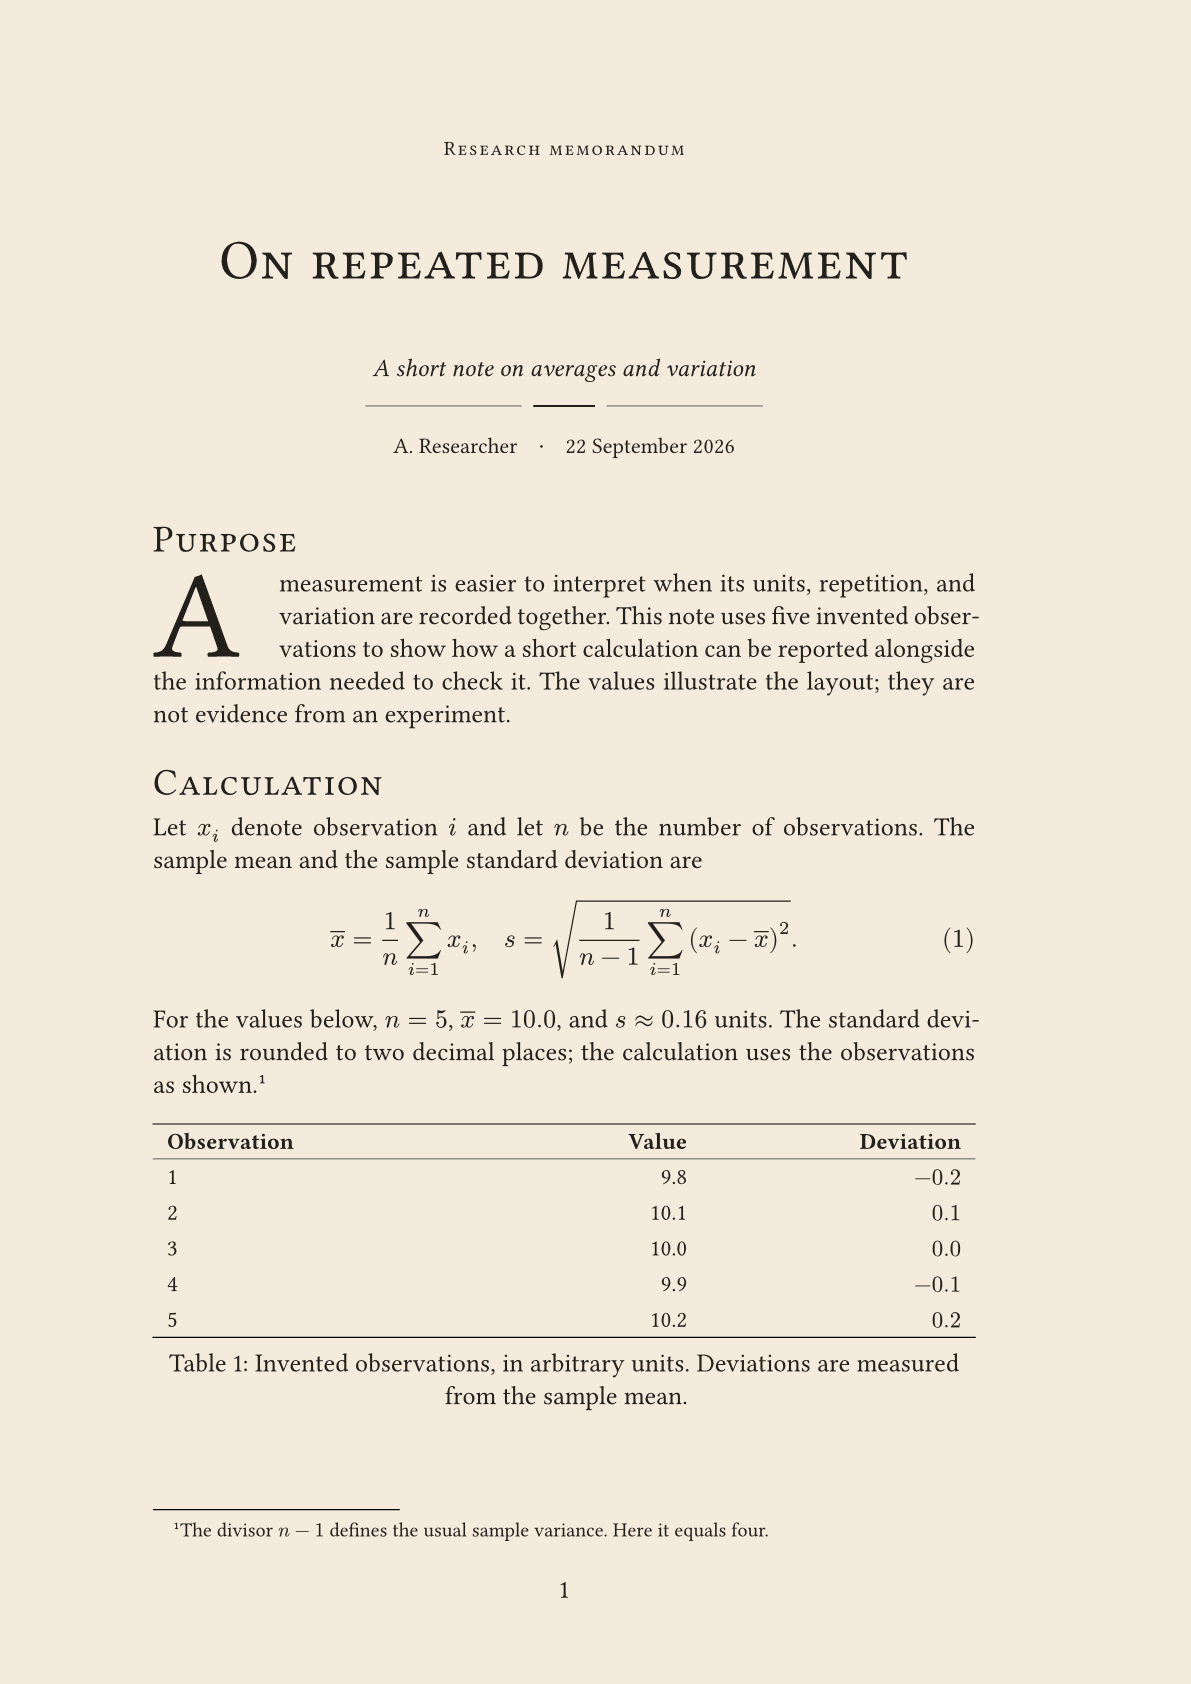
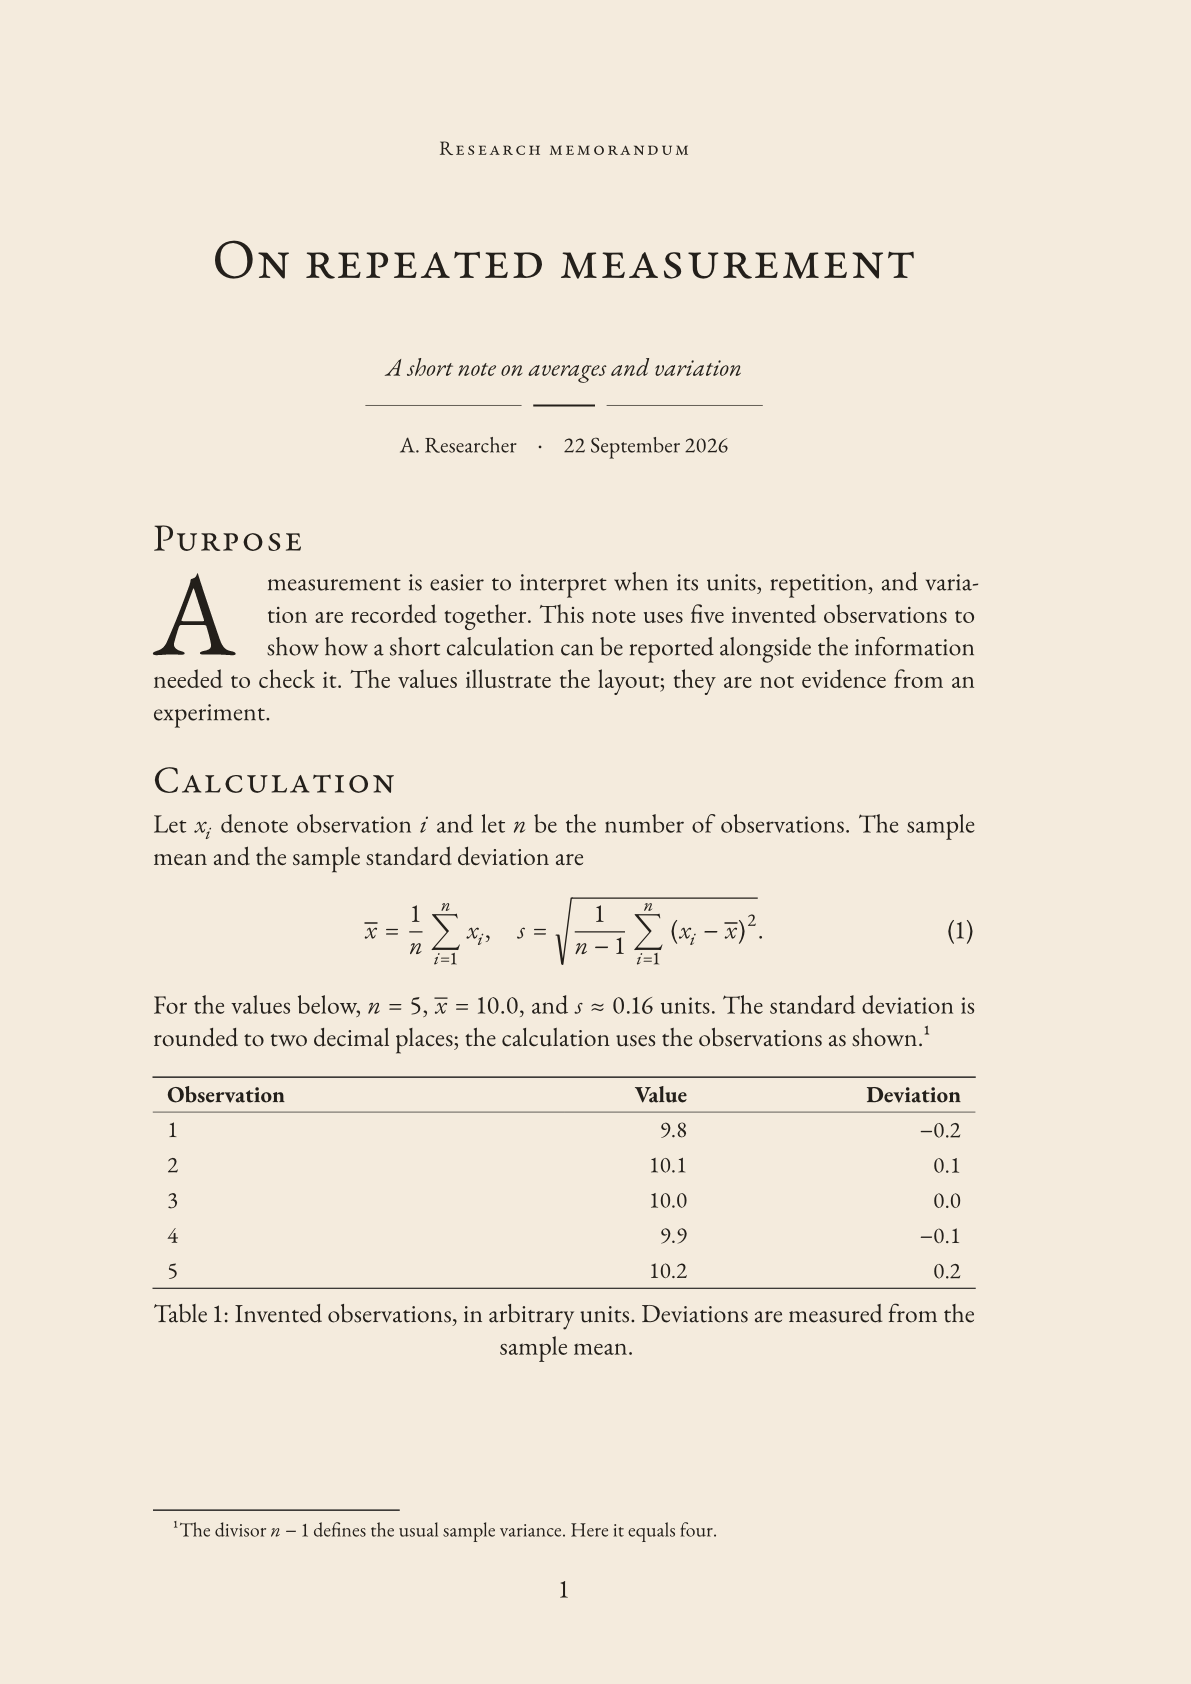
Make Garamond the default and unify the example for 0.2.0

diff --git a/README.md b/README.md
@@ -1,215 +1,168 @@
 <!-- SPDX-License-Identifier: MIT-0 -->
 # sepia-memo
 
-Research memos with cream paper, classical serif typography, small-cap headings,
-printer's rules, and readable mathematics and tables. Adapted from
-[Foadsf/vintage-latex](https://github.com/Foadsf/vintage-latex), with modern
-spelling and numerals. The memo style needs no extra fonts or packages; the starter uses
-[droplet](https://typst.app/universe/package/droplet/) for an optional drop cap.
-Requires Typst 0.15.0 or newer.
+Research memos with cream paper, Garamond text and mathematics, drop capitals,
+and margin notes. Requires Typst 0.15.0 or newer.
 
-Version 0.1.2 is a repository-only version. The existing
-[Typst Universe submission #5916](https://github.com/typst/packages/pull/5916)
-still contains 0.1.0. Registry imports require local installation until the
-corresponding version is published.
+Version 0.2.0 is not yet on Universe. Until publication, use the local preview
+instructions below. [Submission #5916](https://github.com/typst/packages/pull/5916).
 
-## Preview
+## Setup
 
-First page of the complete [starter](template/main.typ), with a drop capital,
-equations, a table, and footnotes:
-
-![Complete starter, page 1 of 2](thumbnail.png)
+Install [EB Garamond](https://ctan.org/pkg/ebgaramond) (regular, italic, bold,
+and bold italic) and [Garamond-Math](https://github.com/YuanshengZhao/Garamond-Math/blob/master/Garamond-Math.otf).
+On desktop, install through your font manager and restart the editor/preview;
+verify both families with `typst fonts`. Alternatively pass `--font-path /path/to/fonts`.
+In the Typst web app, upload them to your project if unavailable. Fonts are not
+bundled. The starter downloads `droplet:0.3.1` on first compilation.
 
 ## Usage
 
-For a shorter example, import the package and apply `memo` to your document:
+[template/main.typ](template/main.typ) is the only starter. Edit its metadata
+and body. The complete example below is the same file; the image is its first page.
 
 ```typ
-#import "@preview/sepia-memo:0.1.2": memo, memo-note, printer-rule
+// SPDX-License-Identifier: MIT-0
+// Copyright (c) 2026 Chen Gao
+#import "@preview/sepia-memo:0.2.0": memo, memo-note
 #import "@preview/droplet:0.3.1": dropcap
 
-#show: memo.with(title: [A research note], author: "Your name")
+#show: memo.with(
+  title: [On repeated measurement],
+  subtitle: [A short note on averages and variation],
+  author: "A. Researcher",
+  date: [22 September 2026],
+)
 
-= Main idea
+// ponytail: One starter; optional fonts use the same memo settings.
+#set math.equation(numbering: "(1)")
+
+= Purpose
 
 #dropcap(height: 3, gap: 4pt)[
-  Write your note here. State the question, define the quantities, and explain
-  the main idea before introducing equations or evidence. Use a dropped capital
-  to mark the opening paragraph; the rest of the note uses ordinary text.
+A measurement is easier to interpret when its units, repetition, and variation
+are recorded together. This note uses five invented observations to show how a
+short calculation can be reported alongside the information needed to check it.
+The values illustrate the layout; they are not evidence from an experiment.
 ]
 
-#memo-note[Check the units.][A paragraph with a note in the right margin.]
+= Calculation
 
-#printer-rule()
+Let $x_i$ denote observation $i$ and let $n$ be the number of observations. The
+sample mean and the sample standard deviation are
+
+$
+  overline(x) = 1/n sum_(i=1)^n x_i,
+  quad s = sqrt(1/(n - 1) sum_(i=1)^n (x_i - overline(x))^2).
+$ <eq-summary>
+
+For the values below, $n = 5$, $overline(x) = 10.0$, and $s approx 0.16$ units.
+The standard deviation is rounded to two decimal places; the calculation uses
+the observations as shown.#footnote[The divisor $n - 1$ defines the usual sample
+  variance. Here it equals four.]
+
+#figure(
+  table(
+    columns: (1fr, 1fr, 1fr),
+    align: (left, right, right),
+    table.hline(stroke: 0.6pt),
+    table.header([*Observation*], [*Value*], [*Deviation*]),
+    table.hline(stroke: 0.3pt),
+    [1], [9.8], [$-0.2$],
+    [2], [10.1], [$0.1$],
+    [3], [10.0], [$0.0$],
+    [4], [9.9], [$-0.1$],
+    [5], [10.2], [$0.2$],
+    table.hline(stroke: 0.6pt),
+  ),
+  caption: [Invented observations, in arbitrary units. Deviations are measured
+    from the sample mean.],
+) <tab-observations>
+
+= Interpretation
+
+#memo-note[
+  *Keep units visible.* A precise number can still describe an uncertain
+  measurement.
+][
+  @tab-observations makes the arithmetic in @eq-summary easy to inspect. The
+  deviations sum to zero, while their squares sum to $0.10$. These checks can
+  catch a transcription error before a rounded result is reported.
+]
+
+Repeated measurements describe variation under the conditions of collection.
+They do not, by themselves, establish that the instrument is calibrated or
+that a different setting would produce the same distribution. Those claims
+need their own observations and reasoning.
 ```
 
-Output of this shorter example:
+![The starter rendered with the default Garamond fonts, page 1 of 2](thumbnail.png)
 
-![Rendered Usage example](usage.png)
-
-## Start a memo
-
-The [starter](template/main.typ) contains memo settings and sample content in
-one file. Edit its title, author, date, and body to write your note.
-
-After version 0.1.2 is published on Universe, start a project with:
+Once 0.2.0 is published on Universe, create and watch a memo with:
 
 ```sh
-typst init @preview/sepia-memo:0.1.2 my-memo
+typst init @preview/sepia-memo:0.2.0 my-memo
 typst watch my-memo/main.typ my-memo/main.pdf
 ```
 
 ## Options
 
-Apply `memo.with(...)` with a show rule, as in the starter. All options are
-optional; the document body follows the show rule as ordinary Typst content.
+Set these in `memo.with(...)`. The body follows the show rule normally.
 
 | Option | Default | Purpose |
 | --- | --- | --- |
-| `title` | `[Untitled memo]` | Title content and PDF title metadata |
-| `subtitle` | `none` | Optional subtitle content |
-| `author` | `""` | Author string and PDF author metadata |
-| `date` | `none` | Date content or string; never changes automatically |
-| `paper` | `"a4"` | Paper name, such as `"us-letter"` |
-| `font` | `"Libertinus Serif"` | Body font family |
-| `math-font` | `"New Computer Modern Math"` | OpenType math font family |
-| `paper-color` | `rgb("#F4EBDD")` | Page background; use `white` for printing |
+| `title` | `[Untitled memo]` | Title and PDF metadata |
+| `subtitle` | `none` | Subtitle content |
+| `author` | `""` | Author string and PDF metadata |
+| `date` | `none` | Date content or string |
+| `paper` | `"a4"` | Paper size; also supports `"us-letter"` |
+| `font` | `"EB Garamond"` | Text font |
+| `math-font` | `"Garamond-Math"` | Math font |
+| `paper-color` | `rgb("#F4EBDD")` | Background; use `white` for printing |
 | `ink` | `rgb("#231F1A")` | Text and title-rule color |
 
-Default fonts are embedded in the Typst CLI. Code uses DejaVu Sans Mono.
-Body text is 13 pt; the title is 28 pt. Level-1 headings use 19 pt small caps,
-level-2 use 17 pt italic, and level-3 use 14 pt bold. Fixed margins are 25 mm
-top, 26 mm bottom, 27 mm left, and 38 mm right, intended for portrait A4 and
-US Letter. When adapting an existing document, select its paper size explicitly.
+For fonts embedded in the Typst CLI, set `font: "Libertinus Serif"` and
+`math-font: "New Computer Modern Math"`; the layout will differ from the preview.
 
-Headings, equations, references, footnotes, figures, and bibliographies remain
-ordinary Typst elements. Opt into equation numbering with
-`#set math.equation(numbering: "(1)")`. Tables use lining tabular numerals;
-add rules with `table.hline`. Table figures can span pages; use
-`table.header(repeat: true, ...)` to repeat a long table's header.
+- `memo-note(note)[paragraph]`: one short paragraph with a right-margin note.
+  Use at the top level with the standard margins; the pair stays on one page.
+- `printer-rule()`: import it from sepia-memo for a three-part divider.
+  Its `ink` option defaults to `rgb("#231F1A")`.
+- The starter's three-line drop cap comes from [droplet](https://typst.app/universe/package/droplet/).
+  Wrap prose only; keep tables, display equations, and margin notes outside it.
+  To remove it, delete the `dropcap(...)` wrapper and droplet import.
 
-Import `printer-rule` alongside `memo` to insert a three-part divider with
-`#printer-rule()`. Its optional `ink` parameter sets the color.
+## Local preview
 
-`memo-note(note)[paragraph]` pairs a short paragraph with a right-margin note.
-It reserves both heights to prevent overlap and stays on one page. Use it at
-the top level with the standard memo margins, not inside a table, column, or
-narrow container. Use ordinary footnotes for long notes.
-
-## Optional drop capital
-
-The starter and Usage example import `dropcap` directly from
-[droplet 0.3.1](https://typst.app/universe/package/droplet/), then wrap the opening
-paragraph in `#dropcap(height: 3, gap: 4pt)[...]`. The first letter spans three
-lines; text returns to full width below it. It inherits the memo's text font,
-including optional Garamond. No extra function or setting in `memo` is needed.
-
-Use it on one prose paragraph at a time. Keep tables, display equations, and
-margin notes outside the wrapper. Droplet splits at word boundaries and has
-[wrapping limitations](https://typst.app/universe/package/droplet/#paragraph-splitting).
-For an ordinary opening paragraph, remove the wrapper and the droplet import.
-Typst downloads droplet on first use; later builds can use the cached package.
-
-## Optional Garamond appearance
-
-In the starter's existing `memo.with(...)` call, add:
-
-```typ
-font: "EB Garamond",
-math-font: "Garamond-Math",
-```
-
-The first option changes text; the second changes equations. Garamond can
-change line breaks and pagination. Both font families must be available to
-the compiler or preview process.
-
-Obtain the regular, italic, bold, and bold-italic EB Garamond faces from the
-[EB Garamond project](https://github.com/octaviopardo/EBGaramond12) or
-[CTAN](https://ctan.org/pkg/ebgaramond), and
-[Garamond-Math.otf](https://github.com/YuanshengZhao/Garamond-Math/blob/master/Garamond-Math.otf).
-The static files used for validation were `EBGaramond-Regular.otf`,
-`EBGaramond-Italic.otf`, `EBGaramond-Bold.otf`, `EBGaramond-BoldItalic.otf`, and
-`Garamond-Math.otf`.
-
-Install them through your operating system's font manager. On macOS, use
-[Font Book](https://support.apple.com/guide/font-book/install-and-validate-fonts-fntbk1000/mac).
-Restart your editor and preview to rescan fonts. Run `typst fonts` and check
-for the exact family names `EB Garamond` and `Garamond-Math`.
-
-With TeX Live, `kpsewhich EBGaramond-Regular.otf` and
-`kpsewhich Garamond-Math.otf` locate installed files; the other text faces are
-usually beside the regular face. Empty output means the file was not found.
-Fonts visible to TeX are not necessarily visible to Typst: install them through
-your font manager or point Typst at their directory:
+Open the repository folder. In `template/main.typ`, change only the sepia-memo
+import path to `"../lib.typ"`, then run from the repository root:
 
 ```sh
-typst fonts --font-path /path/to/fonts
-typst compile --font-path /path/to/fonts main.typ memo.pdf
-```
-
-This command assumes a project created with `typst init`. For a Git checkout,
-use the input path and `--root .` from the instructions below.
-A CLI `--font-path` flag does not configure an editor's separate preview
-process. For Zed/Tinymist, install fonts for your user or configure its font
-paths, then restart the preview. An `unknown font family` warning means that
-process cannot find the requested font.
-
-In the Typst web app, upload fonts into your project if unavailable; see
-[Typst's font documentation](https://typst.app/docs/reference/text/text/#parameters-font).
-No fonts are bundled here. Font software has separate OFL-1.1 terms; retain
-its licenses and notices if redistributing it separately.
-
-## Local development and preview
-
-To try an unpublished checkout:
-
-```sh
-git clone https://github.com/ChennoShen239/sepia-memo.git
-cd sepia-memo
-```
-
-In `template/main.typ`, replace the first import with this local import:
-
-```typ
-#import "../lib.typ": memo, memo-note
-```
-
-Then compile or watch from the repository root:
-
-```sh
-typst compile --root . template/main.typ memo.pdf
 typst watch --root . template/main.typ memo.pdf
 ```
 
-Open the PDF in a viewer that reloads changed files. For browser preview, use
-an editor integration such as [Tinymist](https://myriad-dreamin.github.io/tinymist/feature/preview.html).
-Open the repository folder as the editor project and select `template/main.typ`
-as the main document. The project root must include `lib.typ` for local imports.
+Save edits to refresh the PDF, or open `template/main.typ` with your editor's
+[Tinymist browser preview](https://myriad-dreamin.github.io/tinymist/feature/preview.html).
 
-## Attribution and licenses
+## Licenses and dependencies
 
-The adapted library follows vintage-latex example 01 at commit
-`559011918849a3da819912a7c26493071d542df5`, with the optional Garamond math pairing
-from example 15. Copyright (c) 2026 the repository contributors; adaptation
-copyright (c) 2026 Chen Gao. See [NOTICE](NOTICE) for the source and changes.
+Adapted from [Foadsf/vintage-latex](https://github.com/Foadsf/vintage-latex).
+[NOTICE](NOTICE) records the source revision and changes; [LICENSE](LICENSE)
+defines the file boundaries and links to complete terms.
 
-| Files | License |
+| Included files | License |
 | --- | --- |
-| `lib.typ`, `thumbnail.png`, `usage.png` | [CC BY-SA 4.0](licenses/CC-BY-SA-4.0.txt) |
-| `template/main.typ`, `typst.toml`, `README.md`, `.gitignore` | [MIT-0](licenses/MIT-0.txt) |
-| `LICENSE`, `NOTICE`, `licenses/*` | License and attribution notices, retained as applicable |
+| `lib.typ`, `thumbnail.png` | [CC BY-SA 4.0](licenses/CC-BY-SA-4.0.txt) |
+| `template/main.typ`, `README.md`, `typst.toml`, `.gitignore` | [MIT-0](licenses/MIT-0.txt) |
 
-Starter prose and invented measurements were written independently. MIT-0 lets
-users edit and distribute the starter without attribution or notice requirements;
-it does not change the library's CC-BY-SA obligations. Authors retain rights in
-their own writing. An output's obligations depend on any protected upstream
-material it contains or adapts; this package grants no blanket output exception.
-The supplied sample PDF and preview images may be shared under CC-BY-SA-4.0.
+| External requirement | License |
+| --- | --- |
+| Typst 0.15.0+ compiler | [Apache-2.0](https://github.com/typst/typst/blob/main/LICENSE) |
+| droplet 0.3.1, imported by the starter | [MIT](https://github.com/typst/packages/blob/main/packages/preview/droplet/0.3.1/LICENSE) |
+| EB Garamond | [OFL-1.1](https://github.com/octaviopardo/EBGaramond12/blob/master/OFL.txt) |
+| Garamond-Math | [OFL-1.1](https://github.com/YuanshengZhao/Garamond-Math/blob/master/LICENSE) |
 
-The optional drop-cap package, droplet 0.3.1 by Eric Biedert, is separately
-distributed under [MIT](https://github.com/typst/packages/blob/main/packages/preview/droplet/0.3.1/LICENSE).
-It is imported from Universe; its source is not copied into this package.
-
-No upstream demonstration prose, fonts, engraved figures, or fiziko code are
-distributed. See [LICENSE](LICENSE) for file-level scope and full terms.
-No endorsement by upstream authors is claimed.
+External tools, package code, and fonts are not bundled. Retain their respective
+licenses and notices if redistributing them separately. Embedding OFL fonts does
+not license the document under OFL. Authors retain rights in their own text;
+any protected upstream material in an output retains its applicable obligations.
